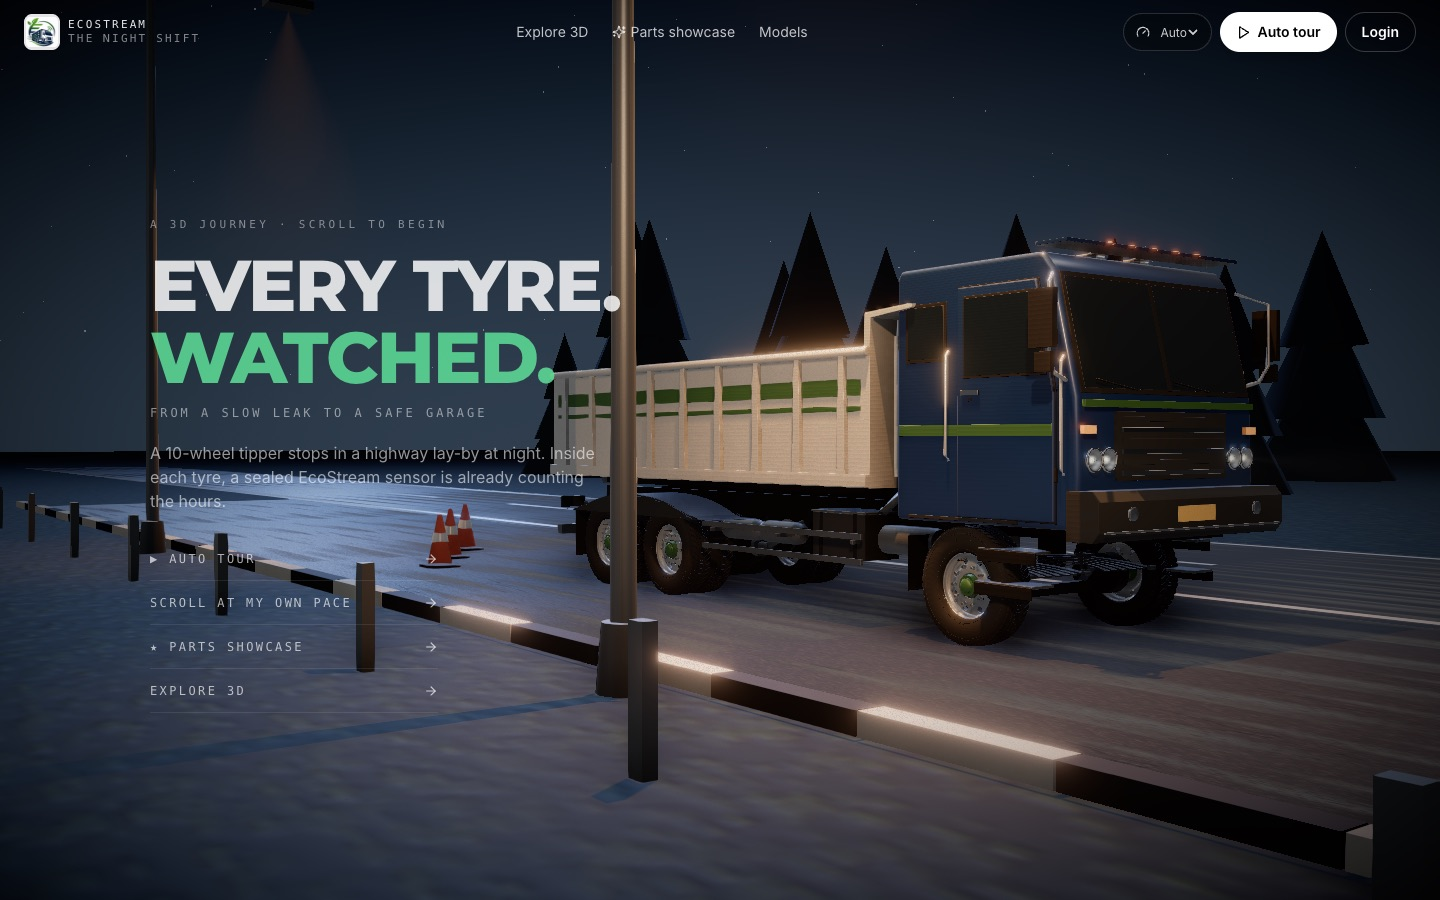
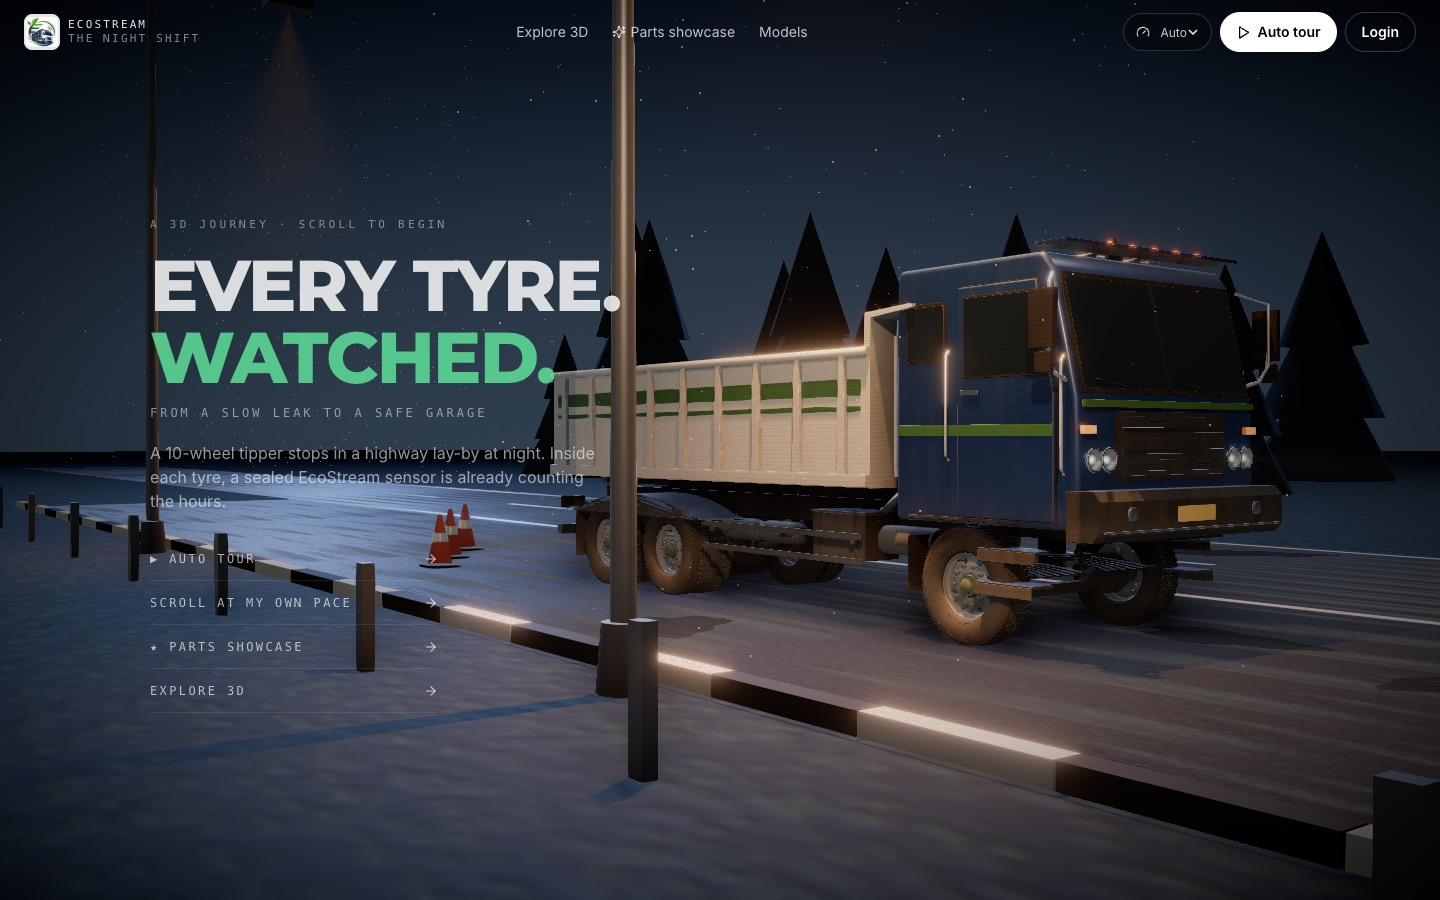
Night story round 3: road grime shader on the truck, lamp-lit puddles, dust motes in the lamp beams, hot/leak framing

diff --git a/frontend/src/story3d/NightWorld.tsx b/frontend/src/story3d/NightWorld.tsx
@@ -291,6 +291,84 @@ function Silhouettes() {
   )
 }
 
+/** Shallow puddles: near-mirror patches that catch the sodium lamps and the headlights. */
+function Puddles() {
+  const shapes = useMemo(() => {
+    let s = 5
+    const r = () => ((s = (s * 16807) % 2147483647) / 2147483647)
+    return Array.from({ length: 9 }, () => ({
+      x: -9 + r() * 12.5,
+      z: -16 + r() * 26,
+      sx: 0.5 + r() * 1.2,
+      sz: 0.35 + r() * 0.8,
+      rot: r() * Math.PI,
+    }))
+  }, [])
+  const geo = useMemo(() => {
+    // irregular blob outline
+    const sh = new THREE.Shape()
+    const n = 28
+    for (let i = 0; i <= n; i++) {
+      const a = (i / n) * Math.PI * 2
+      const rr = 1 + 0.18 * Math.sin(a * 3 + 1) + 0.1 * Math.sin(a * 7)
+      const x = Math.cos(a) * rr
+      const y = Math.sin(a) * rr
+      if (i === 0) sh.moveTo(x, y)
+      else sh.lineTo(x, y)
+    }
+    return new THREE.ShapeGeometry(sh, 4)
+  }, [])
+  return (
+    <group>
+      {shapes.map((p, i) => (
+        <mesh key={i} geometry={geo} position={[p.x, 0.006, p.z]} rotation={[-Math.PI / 2, 0, p.rot]} scale={[p.sx, p.sz, 1]} receiveShadow>
+          <meshPhysicalMaterial color="#202226" roughness={0.1} metalness={0.3} clearcoat={1} clearcoatRoughness={0.05} transparent opacity={0.7} depthWrite={false} polygonOffset polygonOffsetFactor={-2} />
+        </mesh>
+      ))}
+    </group>
+  )
+}
+
+/** Dust and insects drifting through the lamp light. */
+function Motes() {
+  const pts = useRef<THREE.Points>(null)
+  const { geo, base } = useMemo(() => {
+    const n = 900
+    const p = new Float32Array(n * 3)
+    let s = 9
+    const r = () => ((s = (s * 16807) % 2147483647) / 2147483647)
+    for (let i = 0; i < n; i++) {
+      const lamp = LAMP_ZS[i % LAMP_ZS.length]
+      const a = r() * Math.PI * 2
+      const rad = Math.sqrt(r()) * 3.2
+      p[i * 3] = 2.45 + Math.cos(a) * rad
+      p[i * 3 + 1] = 0.3 + r() * 8.3
+      p[i * 3 + 2] = lamp + Math.sin(a) * rad
+    }
+    const g = new THREE.BufferGeometry()
+    g.setAttribute('position', new THREE.BufferAttribute(p, 3))
+    return { geo: g, base: p.slice() }
+  }, [])
+  useFrame(({ clock }) => {
+    const t = clock.elapsedTime
+    const a = geo.attributes.position as THREE.BufferAttribute
+    for (let i = 0; i < a.count; i++) {
+      a.setXYZ(
+        i,
+        base[i * 3] + Math.sin(t * 0.3 + i) * 0.25,
+        base[i * 3 + 1] + Math.sin(t * 0.2 + i * 1.7) * 0.3,
+        base[i * 3 + 2] + Math.cos(t * 0.25 + i * 0.7) * 0.25,
+      )
+    }
+    a.needsUpdate = true
+  })
+  return (
+    <points ref={pts} geometry={geo} raycast={() => null}>
+      <pointsMaterial color="#ffcf9a" size={0.035} transparent opacity={0.7} depthWrite={false} blending={THREE.AdditiveBlending} />
+    </points>
+  )
+}
+
 export default function NightWorld() {
   const asphalt = useMemo(() => makeAsphalt(10, 3), [])
   const shoulder = useMemo(() => makeAsphalt(6, 9), [])
@@ -333,6 +411,8 @@ export default function NightWorld() {
         </mesh>
       ))}
       <Barrier />
+      <Puddles />
+      {!quality.low && <Motes />}
       {LAMP_ZS.map((z, i) => (
         <StreetLamp key={z} z={z} shadow={!quality.low && i === 1} />
       ))}

diff --git a/frontend/src/story3d/grime.ts b/frontend/src/story3d/grime.ts
@@ -1,0 +1,42 @@
+import * as THREE from 'three'
+
+/*
+ * Road grime for the truck's materials, added in the shader (no extra textures):
+ * a dusty brown film that rises from the ground, thickest near the wheels and the bottom
+ * of the panels, broken up by world-space noise so it doesn't look like a gradient.
+ */
+const NOISE = /* glsl */ `
+  float gHash(vec3 p){ p = fract(p * 0.3183099 + 0.1); p *= 17.0; return fract(p.x * p.y * p.z * (p.x + p.y + p.z)); }
+  float gNoise(vec3 x){
+    vec3 i = floor(x); vec3 f = fract(x); f = f * f * (3.0 - 2.0 * f);
+    return mix(mix(mix(gHash(i + vec3(0,0,0)), gHash(i + vec3(1,0,0)), f.x), mix(gHash(i + vec3(0,1,0)), gHash(i + vec3(1,1,0)), f.x), f.y),
+               mix(mix(gHash(i + vec3(0,0,1)), gHash(i + vec3(1,0,1)), f.x), mix(gHash(i + vec3(0,1,1)), gHash(i + vec3(1,1,1)), f.x), f.y), f.z);
+  }
+  float gFbm(vec3 p){ float a = 0.5, s = 0.0; for (int i = 0; i < 4; i++){ s += a * gNoise(p); p *= 2.03; a *= 0.5; } return s; }
+`
+
+export function addGrime(mat: THREE.MeshStandardMaterial, amount = 1, height = 1.3) {
+  if (mat.userData.grime) return
+  mat.userData.grime = true
+  mat.onBeforeCompile = (sh) => {
+    sh.uniforms.uGrime = { value: amount }
+    sh.uniforms.uGrimeH = { value: height }
+    sh.vertexShader = sh.vertexShader
+      .replace('#include <common>', '#include <common>\nvarying vec3 vGW;')
+      .replace('#include <worldpos_vertex>', '#include <worldpos_vertex>\nvGW = (modelMatrix * vec4(transformed, 1.0)).xyz;')
+    sh.fragmentShader = sh.fragmentShader
+      .replace('#include <common>', `#include <common>\nvarying vec3 vGW;\nuniform float uGrime;\nuniform float uGrimeH;\n${NOISE}`)
+      .replace(
+        '#include <roughnessmap_fragment>',
+        `#include <roughnessmap_fragment>
+        float gN = gFbm(vGW * vec3(3.0, 5.0, 3.0));
+        float gStreak = gFbm(vec3(vGW.x * 9.0, vGW.y * 1.2, vGW.z * 9.0));
+        float gH = 1.0 - smoothstep(0.0, uGrimeH, vGW.y + (gN - 0.5) * 0.6);
+        float gK = clamp(gH * (0.55 + 0.6 * gN) + gStreak * 0.18 - 0.08, 0.0, 1.0) * uGrime;
+        diffuseColor.rgb = mix(diffuseColor.rgb, vec3(0.36, 0.30, 0.23) * (0.7 + 0.5 * gN), gK * 0.75);
+        roughnessFactor = mix(roughnessFactor, 0.95, gK);`,
+      )
+  }
+  mat.customProgramCacheKey = () => `grime-${amount}-${height}`
+  mat.needsUpdate = true
+}

diff --git a/frontend/src/story3d/TruckRig.tsx b/frontend/src/story3d/TruckRig.tsx
@@ -6,6 +6,7 @@ import { asset } from '../lib/asset'
 import { leakAt } from '../landing3d/store'
 import { phases, SPOTS } from './phases'
 import { LightCone } from './NightWorld'
+import { addGrime } from './grime'
 
 /*
  * The Blender truck (frontend/public/models/truck.glb) in the night story.
@@ -115,6 +116,14 @@ export default function TruckRig({ url, labels = true }: { url: string; labels?:
         edges.push(e)
       }
     })
+    // road dust: body paint, chassis, tyres and wheel metal (not glass, lamps or our sealed units)
+    seen.forEach((m) => {
+      const n = m.name
+      if (SENSOR_MATS.has(n) || /glass|lens|headlight|reflector|amber|tail_red|gravel|unit_|plate/.test(n)) return
+      const tyre = TYRE_MATS.has(n)
+      addGrime(m, tyre ? 0.7 : n.includes('chassis') || n.includes('steel') ? 1.0 : 0.85, tyre ? 1.1 : 1.45)
+    })
+    if (leakTyre) addGrime(leakTyre as THREE.MeshStandardMaterial, 0.7, 1.1)
     // a cab material used by both groups would be listed once: dedupe by material
     const uniq = (a: Ghostable[]) => a.filter((g, i) => a.findIndex((h) => h.mat === g.mat) === i)
     return { scene, body: uniq(body), cab: uniq(cab), tyres: uniq(tyres), wheels, leakTyre: leakTyre as THREE.MeshStandardMaterial | null, leds, edges, edgeMat }

diff --git a/frontend/src/story3d/Scene.tsx b/frontend/src/story3d/Scene.tsx
@@ -27,7 +27,7 @@ const KEYS: { id: SectionId; key: Key; port?: Key }[] = [
   { id: 'hero', key: { pos: [11, 2.6, -5.0], look: [1.6, 1.5, -3.6] }, port: { pos: [14.5, 3.8, -8], look: [0, -0.6, 0.5] } },
   { id: 'xray', key: { pos: [8.2, 7.2, 7.2], look: [-0.6, 0.6, -0.4] }, port: { pos: [11, 13, 12], look: [0, 0.2, 0] } },
   { id: 'leak', key: { pos: [-5.2, 1.4, 5.6], look: [-0.9, 0.75, 1.3] }, port: { pos: [-8, 2.8, 8.8], look: [-1, -0.4, 1.4] } },
-  { id: 'hotleak', key: { pos: [9.6, 2.4, -6.2], look: [0.0, 0.8, -10.4] }, port: { pos: [16.5, 5, -9.2], look: [0, -1.2, -9.2] } },
+  { id: 'hotleak', key: { pos: [9.6, 2.4, -6.2], look: [-1.0, 0.8, -8.0] }, port: { pos: [16.5, 5, -9.2], look: [0, -1.2, -9.2] } },
   { id: 'journey', key: { pos: [-9.5, 9.5, 12], look: [5.5, 9, -24] }, port: { pos: [-14, 14, 20], look: [5, 7, -24] } },
   { id: 'map', key: { pos: [-8, MAP_Y + 62, 26], look: [-6, MAP_Y, -4.5] }, port: { pos: [0, MAP_Y + 150, 16], look: [0, MAP_Y, 4] } },
   { id: 'finale', key: { pos: [8.8, 3.0, -2.5], look: [-1.2, 1.7, -16.5] }, port: { pos: [12, 5, -1], look: [0, -0.5, -18] } },
